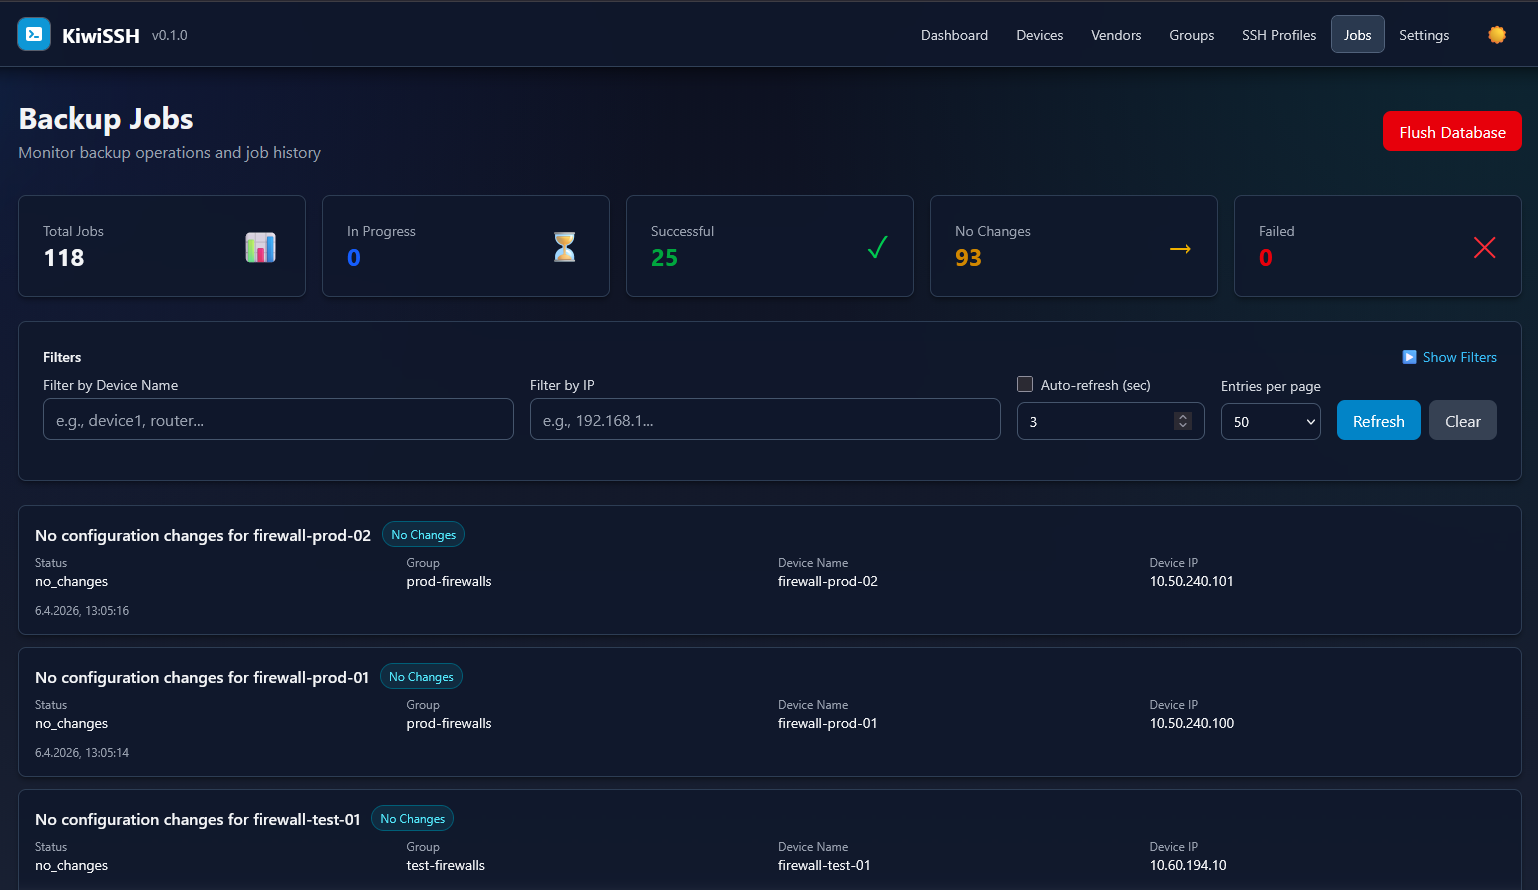
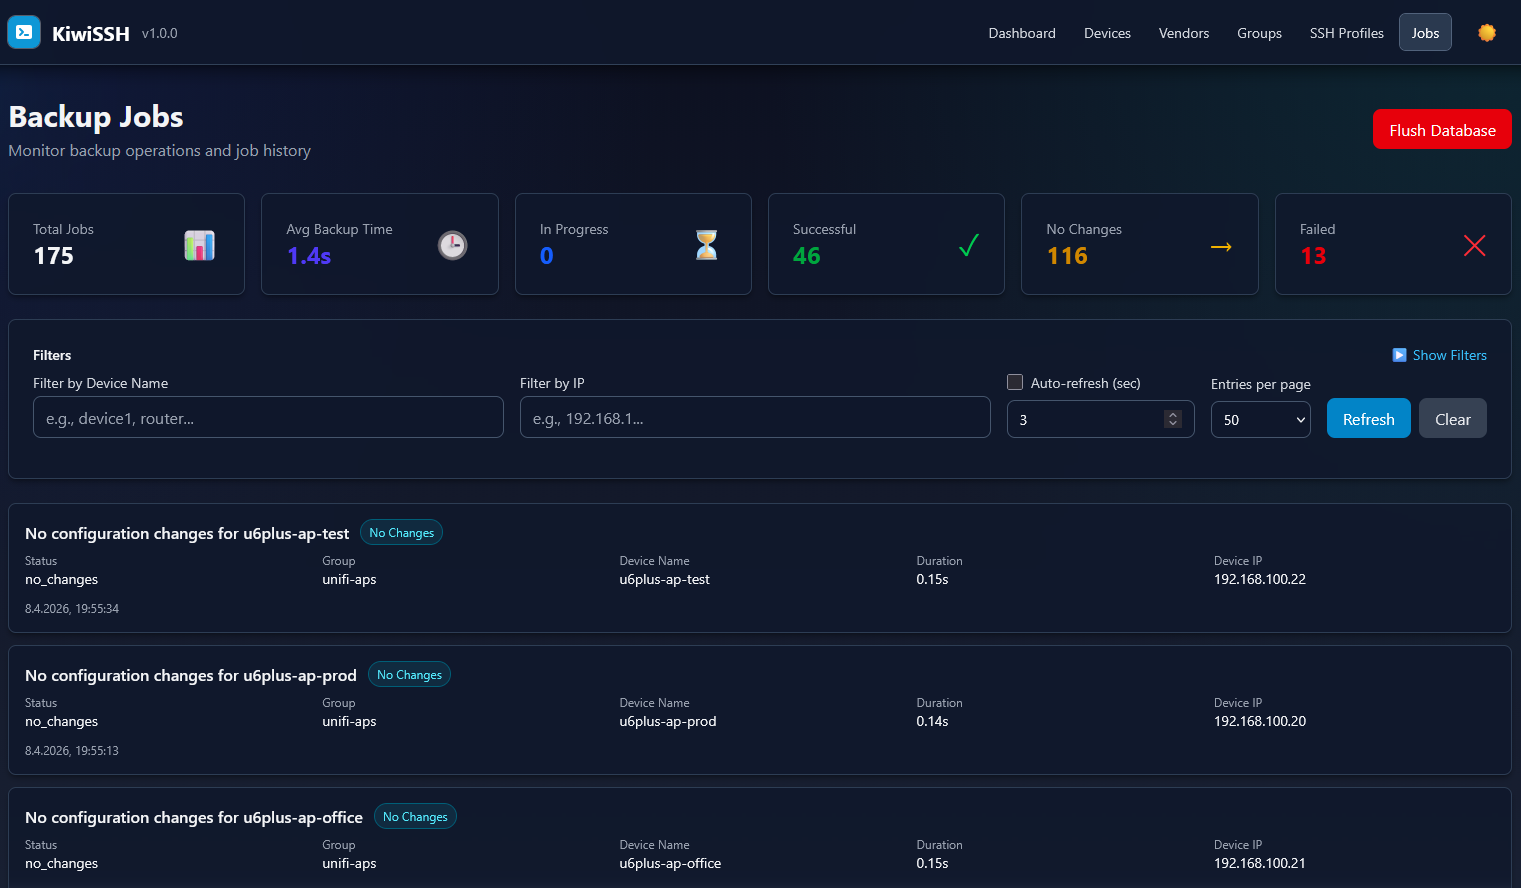
Updated screenshots

diff --git a/README.md b/README.md
@@ -84,7 +84,7 @@ For a detailed overview of supported OS/Device types, please refer to the [OS_TY
 # Screenshots
 
 > [!NOTE]
-> Screenshots as of pre-release version v0.1.0
+> Screenshots as of version v1.0.0
 
 ![Dashboard](/readme_images/dashboard.png)
 
